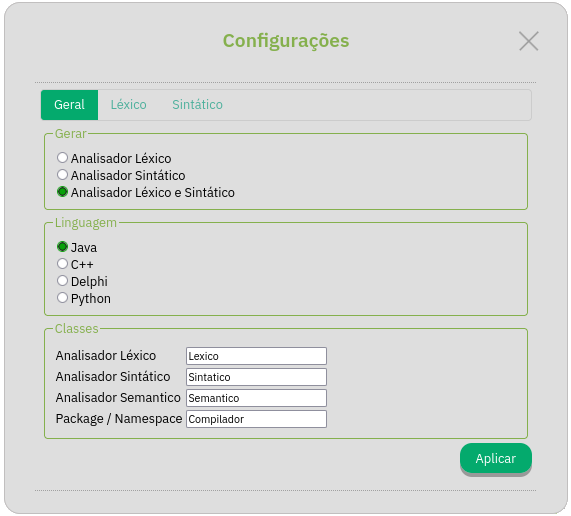
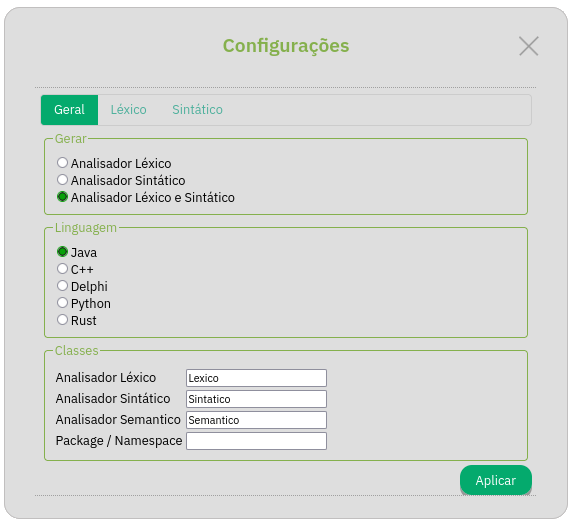
Remove menções ao repositório vsczpv; corrige documentação

diff --git a/src/components/BarraEsquerda.vue b/src/components/BarraEsquerda.vue
@@ -390,7 +390,7 @@ export default defineComponent({
             <a href="https://linktr.ee/prof.edu" target="_blank">Prof. Eduardo Alves da Silva</a>
           </p>
           <p>
-            <em>Mantida em:</em><a href="https://github.com/vsczpv/Web-GALS" target="_blank">vsczpv@GitHub</a>
+            <em>Mantida em:</em><a href="https://github.com/lia-univali/Web-GALS" target="_blank">LIA@GitHub</a>
           </p>
 
         </div>

diff --git a/src/components/BarraSuperior.vue b/src/components/BarraSuperior.vue
@@ -143,7 +143,7 @@ export default defineComponent({
 
 <template>
   <div class="barra__superior">
-  <span class="logo">WEB <span style="color: #9ed15c;">GALS</span> <span style="color: #e64545;"> BETA</span></span>
+  <span class="logo">WEB <span style="color: #9ed15c;">GALS</span></span>
 
     <button class="botao__gerar__codigo" @click="gerarCodigo">Gerar Código</button>
 

diff --git a/public/files/changelog.html b/public/files/changelog.html
@@ -13,7 +13,7 @@
     <p>
       <center><h1>Changelog</h1></center>
     </p>
-    <h3>v2026.05.04</h3>
+    <h3>v2026.05.06</h3>
     <hr>
     <ul>
       <li>Corrigido emissão das tabelas SPECIAL_CASE para scanner léxico para Rust.</li>

diff --git a/webgals-docs/src/intro.md b/webgals-docs/src/intro.md
@@ -2,7 +2,7 @@
 
 O **(Web) GALS** é um ambiente para a geração de analisadores léxicos e sintáticos, originalmente desenvolvido por Carlos Eduardo Gesser como trabalho de conclusão de curso do Curso de Bacharelado em Ciências da Computação, da Universidade Federal de Santa Catarina, sendo desenvolvido sob a orientação do Prof. Olinto José Varela Furtado. Posteriormente, este projeto foi ampliado na forma do Web GALS, também no formato de trabalho de conclusão de curso de Ciências da Computação, pelos alunos Daniel Akira Nakamura Gullich e Vinícius Schütz Piva, ambos orientados pelo Prof. Eduardo Alves da Silva, na Universidade do Vale do Itajaí.
 
-Esta ferramenta pode ser usada em [https://lia-univali.github.io/Web-GALS/](https://lia-univali.github.io/Web-GALS/) (v2024) e [https://vsczpv.github.io/Web-GALS/](https://vsczpv.github.io/Web-GALS/) (v2026).
+Esta ferramenta pode ser usada em [https://lia-univali.github.io/Web-GALS/](https://lia-univali.github.io/Web-GALS/).
 
 O Web GALS é uma ferramenta de Software Livre. Seu código fonte é liberado sob a Licença Publica GNU. ([http://www.gnu.org/](http://www.gnu.org/))
 
@@ -43,7 +43,7 @@ Após finalizar um projeto no Web GALS, é possível gerar um código *template*
 ![Exemplo de Projeto Gerado](./projexample.png)
 <center><i>Exemplo de projeto gerado pelo Web GALS.</i></center>
 
-Tendo de exemplo [o seguinte arquivo de projeto](https://vsczpv.github.io/Web-GALS/files/exemplo.gals), com a seguinte entrada de simulação, o estado do Web GALS se encontra como no da figura:
+Tendo de exemplo [o seguinte arquivo de projeto](https://lia-univali.github.io/Web-GALS/files/exemplo.gals), com a seguinte entrada de simulação, o estado do Web GALS se encontra como no da figura:
 ```rust
 {
 	let a = b * (1 + 2) - c;

diff --git a/webgals-docs/src/opcoes.md b/webgals-docs/src/opcoes.md
@@ -29,7 +29,7 @@ Estas opções permitem o usuário escolher a **linguagem de implementação** d
 - **C++**
 - **Delphi**
 - **Python**
-- **Rust** (Não Finalizado)
+- **Rust**
 
 > [!WARNING]
 > A implementação em linguagem Delphi não tem suporte para todas as funcionalidades providas pelo Web GALS.
